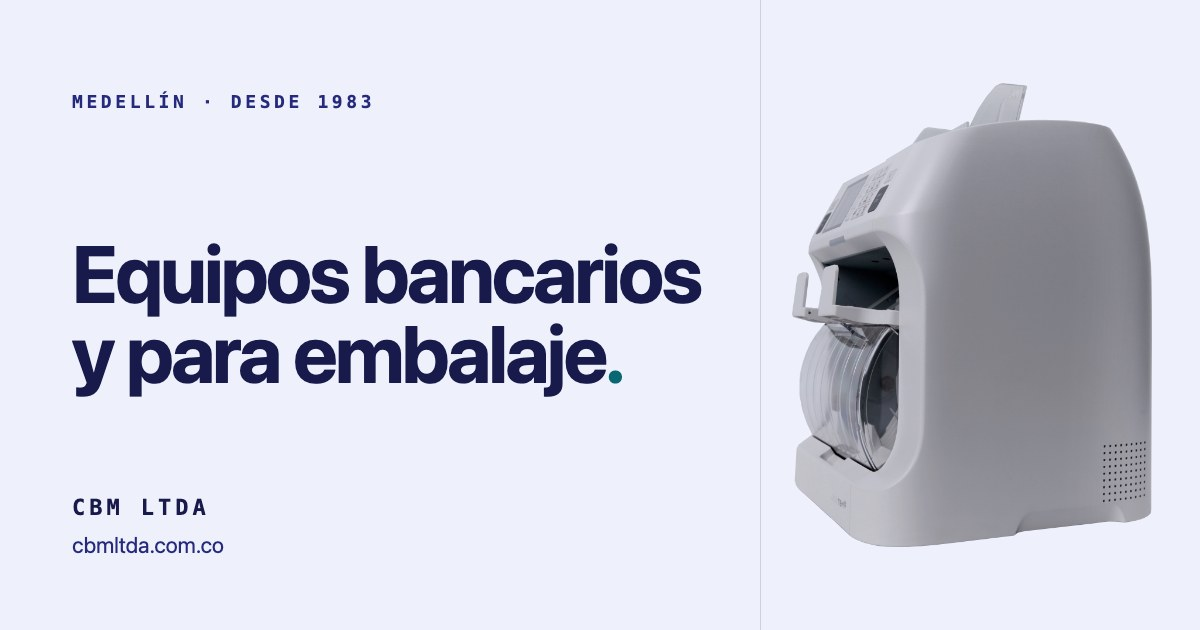
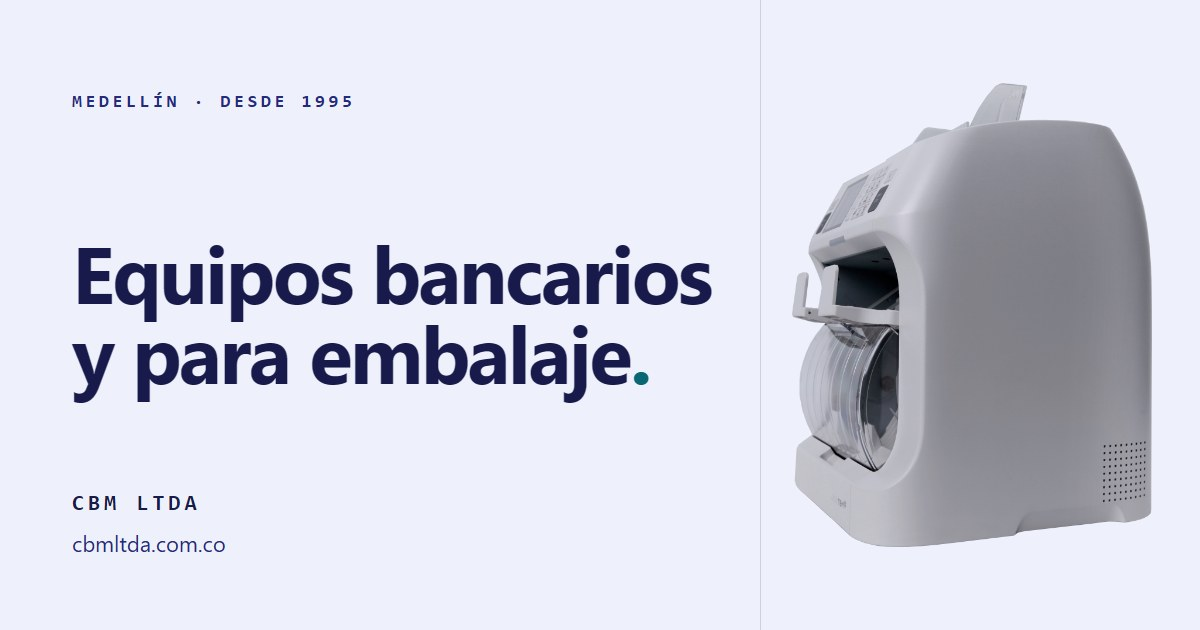
Update founding year from 1983 to 1995

diff --git a/src/site.config.ts b/src/site.config.ts
@@ -9,8 +9,8 @@ export const SITE = {
   // Homepage meta description and JSON-LD description. 160 characters max: search
   // results cut it and the postbuild (scripts/check-links.mjs) fails above that.
   descripcion:
-    'Contadoras de billetes y monedas, detectores de billetes, zunchadoras e insumos de embalaje con servicio técnico propio. Desde 1983 en Medellín, Colombia.',
-  fundacion: 1983,
+    'Contadoras de billetes y monedas, detectores de billetes, zunchadoras e insumos de embalaje con servicio técnico propio. Desde 1995 en Medellín, Colombia.',
+  fundacion: 1995,
   ciudad: 'Medellín',
   pais: 'Colombia',
   direccion: 'Diagonal 74B (Av. Bolivariana) # 32 - 117',
